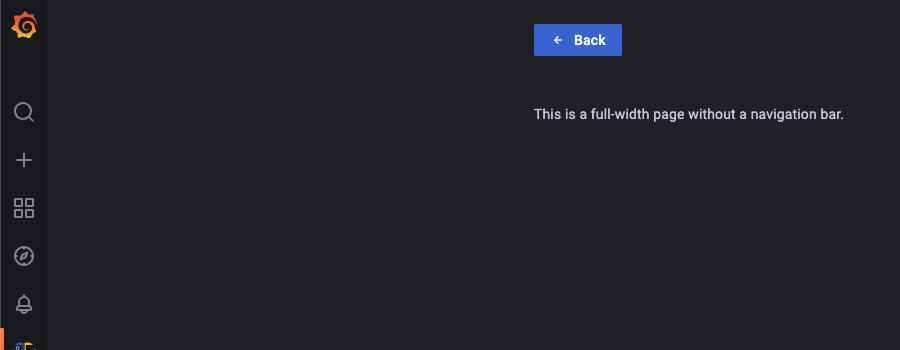
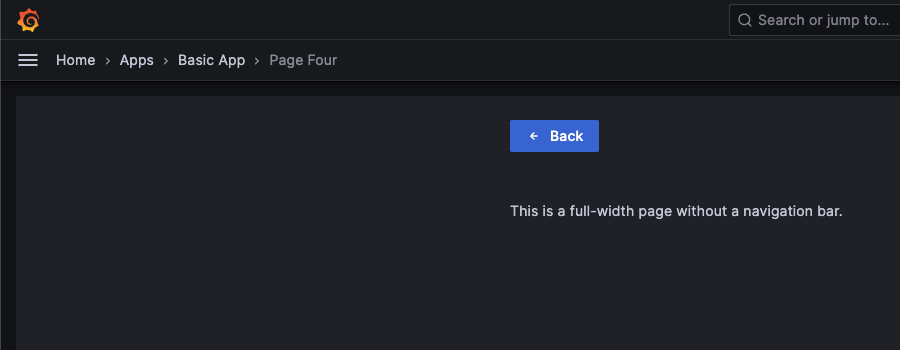
refactor: update app-basic to use react-router v6

diff --git a/examples/app-basic/src/pages/PageThree/PageThree.tsx b/examples/app-basic/src/pages/PageThree/PageThree.tsx
@@ -1,4 +1,4 @@
-import * as React from 'react';
+import React from 'react';
 import { css } from '@emotion/css';
 import { useParams, Link } from 'react-router-dom';
 import { GrafanaTheme2 } from '@grafana/data';
@@ -6,35 +6,38 @@ import { useStyles2 } from '@grafana/ui';
 import { prefixRoute } from '../../utils/utils.routing';
 import { ROUTES } from '../../constants';
 import { testIds } from '../../components/testIds';
+import { PluginPage } from '@grafana/runtime';
 
-export const PageThree = () => {
+export function PageThree() {
   const s = useStyles2(getStyles);
   const { id } = useParams<{ id: string }>();
 
   return (
-    <div data-testid={testIds.pageThree.container}>
-      This is page three.
-      <br />
-      <br />
-      {/* The ID parameter is set */}
-      {id && (
-        <>
-          <strong>ID:</strong> {id}
-        </>
-      )}
-      {/* No ID parameter */}
-      {!id && (
-        <>
-          <strong>No id parameter is set in the URL.</strong> <br />
-          Try the following link: <br />
-          <Link className={s.link} to={prefixRoute(`${ROUTES.Three}/123456789`)}>
-            {prefixRoute(`${ROUTES.Three}/123456789`)}
-          </Link>
-        </>
-      )}
-    </div>
+    <PluginPage>
+      <div data-testid={testIds.pageThree.container}>
+        This is page three.
+        <br />
+        <br />
+        {/* The ID parameter is set */}
+        {id && (
+          <>
+            <strong>ID:</strong> {id}
+          </>
+        )}
+        {/* No ID parameter */}
+        {!id && (
+          <>
+            <strong>No id parameter is set in the URL.</strong> <br />
+            Try the following link: <br />
+            <Link className={s.link} to={prefixRoute(`${ROUTES.Three}/123456789`)}>
+              {prefixRoute(`${ROUTES.Three}/123456789`)}
+            </Link>
+          </>
+        )}
+      </div>
+    </PluginPage>
   );
-};
+}
 
 const getStyles = (theme: GrafanaTheme2) => ({
   link: css`

diff --git a/examples/app-basic/src/pages/PageFour/PageFour.tsx b/examples/app-basic/src/pages/PageFour/PageFour.tsx
@@ -1,25 +1,28 @@
-import * as React from 'react';
+import React from 'react';
 import { css } from '@emotion/css';
-import { GrafanaTheme2 } from '@grafana/data';
+import { GrafanaTheme2, PageLayoutType } from '@grafana/data';
 import { LinkButton, useStyles2 } from '@grafana/ui';
 import { ROUTES } from '../../constants';
 import { prefixRoute } from '../../utils/utils.routing';
 import { testIds } from '../../components/testIds';
+import { PluginPage } from '@grafana/runtime';
 
-export const PageFour = () => {
+export function PageFour() {
   const s = useStyles2(getStyles);
 
   return (
-    <div className={s.page} data-testid={testIds.pageFour.container}>
-      <div className={s.container}>
-        <LinkButton data-testid={testIds.pageFour.navigateBack} icon="arrow-left" href={prefixRoute(ROUTES.One)}>
-          Back
-        </LinkButton>
-        <div className={s.content}>This is a full-width page without a navigation bar.</div>
+    <PluginPage layout={PageLayoutType.Canvas}>
+      <div className={s.page} data-testid={testIds.pageFour.container}>
+        <div className={s.container}>
+          <LinkButton data-testid={testIds.pageFour.navigateBack} icon="arrow-left" href={prefixRoute(ROUTES.One)}>
+            Back
+          </LinkButton>
+          <div className={s.content}>This is a full-width page without a navigation bar.</div>
+        </div>
       </div>
-    </div>
+    </PluginPage>
   );
-};
+}
 
 const getStyles = (theme: GrafanaTheme2) => ({
   page: css`

diff --git a/examples/app-basic/src/pages/PageOne/PageOne.tsx b/examples/app-basic/src/pages/PageOne/PageOne.tsx
@@ -1,23 +1,28 @@
-import * as React from 'react';
+import React from 'react';
 import { css } from '@emotion/css';
 import { GrafanaTheme2 } from '@grafana/data';
 import { LinkButton, useStyles2 } from '@grafana/ui';
 import { prefixRoute } from '../../utils/utils.routing';
 import { ROUTES } from '../../constants';
 import { testIds } from '../../components/testIds';
+import { PluginPage } from '@grafana/runtime';
 
-export const PageOne = () => {
+export function PageOne() {
   const s = useStyles2(getStyles);
 
   return (
-    <div data-testid={testIds.pageOne.container}>
-      This is page one.
-      <div className={s.marginTop}>
-        <LinkButton data-testid={testIds.pageOne.navigateToFour} href={prefixRoute(ROUTES.Four)}>Full-width page example</LinkButton>
+    <PluginPage>
+      <div data-testid={testIds.pageOne.container}>
+        This is page one.
+        <div className={s.marginTop}>
+          <LinkButton data-testid={testIds.pageOne.navigateToFour} href={prefixRoute(ROUTES.Four)}>
+            Full-width page example
+          </LinkButton>
+        </div>
       </div>
-    </div>
+    </PluginPage>
   );
-};
+}
 
 const getStyles = (theme: GrafanaTheme2) => ({
   marginTop: css`

diff --git a/examples/app-basic/src/components/App/App.tsx b/examples/app-basic/src/components/App/App.tsx
@@ -2,8 +2,8 @@ import * as React from 'react';
 import { AppRootProps } from '@grafana/data';
 import { Route, Routes } from 'react-router-dom';
 import { PluginPropsContext } from '../../utils/utils.plugin';
-import { PageOne } from '../../pages/PageOne.js';
-import { PageTwo } from '../../pages/PageTwo.js';
+import { PageOne } from '../../pages/PageOne';
+import { PageTwo } from '../../pages/PageTwo';
 import { PageThree } from '../../pages/PageThree';
 import { PageFour } from '../../pages/PageFour';
 import { ROUTES } from '../../constants';

diff --git a/examples/app-basic/src/pages/PageTwo/PageTwo.tsx b/examples/app-basic/src/pages/PageTwo/PageTwo.tsx
@@ -1,4 +1,13 @@
-import * as React from 'react';
+import React from 'react';
 import { testIds } from '../../components/testIds';
+import { PluginPage } from '@grafana/runtime';
 
-export const PageTwo = () => <div data-testid={testIds.pageTwo.container}>This is page two.</div>;
+export function PageTwo() {
+  return (
+    <PluginPage>
+      <div data-testid={testIds.pageTwo.container}>
+        <p>This is page two.</p>
+      </div>
+    </PluginPage>
+  );
+}

diff --git a/examples/app-basic/README.md b/examples/app-basic/README.md
@@ -10,10 +10,9 @@ App plugins let you create a custom out-of-the-box monitoring experience with fe
 
 | **Example**                                                                                                        | **Source**                             |
 | ------------------------------------------------------------------------------------------------------------------ | -------------------------------------- |
-| [Enable the tab navigation bar](#enable-the-tab-navigation-bar)                                     | [utils.routing.ts], [constants.ts#L17] |
 | [Add a custom route](#add-a-custom-route)                                                           | [Routes.tsx], [constants.ts#L6]        |
 | [Add a custom route with URL parameters](#add-a-custom-route-with-url-parameters)                   | [Routes.tsx], [PageThree.tsx]          |
-| [Create a full-width page with no navigation bar](#create-a-full-width-page-with-no-navigation-bar) | [utils.routing.ts#L25]                 |
+| [Create a full-width page with no navigation bar](#create-a-full-width-page-with-no-navigation-bar) | [PageFour.tsx]                 |
 | [Add custom styling to your components](#add-custom-styling-to-your-components)                     | [PageFour.tsx]                         |
 | [Use the Grafana theme in your components](#use-the-grafana-theme-in-your-components)               | [PageFour.tsx#L25]                     |
 | [How to add menu items to the left sidebar](#hodd-menu-items-to-the-left-sidebar)                           | [plugin.json]                          |
@@ -23,37 +22,11 @@ App plugins let you create a custom out-of-the-box monitoring experience with fe
 | [Update the plugin settings using the API](#how-to-update-the-plugin-settings-using-the-api)               | [AppConfig.tsx]                        |
 | [Access the saved secrets (proxying requests)](#how-to-access-the-saved-secrets-proxying-requests)         | [plugin.json]                          |
 
-### Enable the tab navigation bar
-
-You can enable the tab navigation bar for your app plugin by passing a `nav-model` to the `onNavChanged()` function that is passed in as a prop to your root `App` component.
-If you prefer a simpler approach, you can just edit `NAVIGATION` object in [constants.ts#L17].
-
-**Example:** [utils.routing.ts], [constants.ts#L17]
-
-![Navigation Bar](screenshots/screenshot-nav-bar.png)
-
-**Set the tabs in [constants.ts#L17]**
-
-```javascript
-// Add navigation items here that you want to appear in the tabs
-export const NAVIGATION: Record<string, NavItem> = {
-  [ROUTES.One]: {
-    id: ROUTES.One,
-    text: 'Page One',
-    icon: 'database',
-    url: `${PLUGIN_BASE_URL}/one`,
-  },
-  // ...
-};
-```
-
----
-
 ### Add a custom route
 
-Grafana (and the app plugins are no exception) uses [React Router](https://reactrouter.com/). You can register a new route based on our examples by adding a new route constant in [constants.ts#L6] and then use it in the [Routes.tsx].
+Grafana (and the app plugins are no exception) uses [React Router](https://reactrouter.com/). You can register a new route based on our examples by adding a new route constant in [constants.ts#L6] and then use it in the [App.tsx].
 
-**Example:** [Routes.tsx], [constants.ts#L6]
+**Example:** [App.tsx], [constants.ts#L6]
 
 ---
 
@@ -61,12 +34,12 @@ Grafana (and the app plugins are no exception) uses [React Router](https://react
 
 You can use URL parameters for any routes by appending them to the path in the `<Route>` component.
 
-**Example:** [Routes.tsx], [PageThree.tsx]
+**Example:** [App.tsx], [PageThree.tsx]
 
 ```javascript
 // URL parameters are identified by the colon syntax (":<parameter>")
 // The "?" at the end marks the parameter as optional, in which case React Router also identifies this route if there are no parameters used.
-<Route exact path={`${PLUGIN_BASE_URL}/${ROUTES.Three}/:id?`} component={PageThree} />
+<Route path={`${ROUTES.Three}/:id?`} element={<PageThree />} />
 ```
 
 **Retrieve URL parameters:**
@@ -81,15 +54,25 @@ export const MyComponent = () => {
 
 ---
 
-### Create a full-width page with no navigation bar
+### Create a full-width page
 
-You can hide the tab navigation bar and have access to the full view right to the Grafana sidebar by calling the `onNavChanged()` function with an `undefined` (as it is done in [utils.routing.ts#L25]).
+You can hide the tab navigation bar and have access to the full view right to the Grafana sidebar by changing the layout of the `<PluginPage>` component.
 
-**Example:** [utils.routing.ts#L25]
+**Example:** [PageFour.tsx]
 
 ![Full-width page example](./screenshots/screenshot-full-width-page.png)
 
-> Note: In the current example it is enough to just exclude your route from the `NAVIGATION` object ([constants.ts#L17]). Doing so automatically uses a full-width page.
+```typescript
+import { PageLayoutType } from '@grafana/data';
+
+// ...
+
+export function YourPage() {
+  return (
+    <PluginPage layout={PageLayoutType.Canvas}>
+
+    // ...
+```
 
 ---
 
@@ -209,12 +192,10 @@ Below you can find source code for existing app plugins and other related docume
 - [Sign a plugin](https://grafana.com/developers/plugin-tools/publish-a-plugin/sign-a-plugin)
 
 <!-- prettier-ignore-start -->
-[utils.routing.ts]: https://github.com/grafana/grafana-plugin-examples/blob/master/examples/app-basic/src/utils/utils.routing.ts#L29
 [Routes.tsx]: https://github.com/grafana/grafana-plugin-examples/blob/master/examples/app-basic/src/components/Routes/Routes.tsx#L17
 [PageThree.tsx]: https://github.com/grafana/grafana-plugin-examples/blob/master/examples/app-basic/src/pages/PageThree/PageThree.tsx#L10
-[PageFour.tsx]: https://github.com/grafana/grafana-plugin-examples/blob/master/examples/app-basic/src/pages/PageFour/PageFour.tsx#L22
+[PageFour.tsx]: https://github.com/grafana/grafana-plugin-examples/blob/master/examples/app-basic/src/pages/PageFour/PageFour.tsx
 [PageFour.tsx#L25]: https://github.com/grafana/grafana-plugin-examples/blob/master/examples/app-basic/src/pages/PageFour/PageFour.tsx#L25
-[utils.routing.ts#L25]: https://github.com/grafana/grafana-plugin-examples/blob/master/examples/app-basic/src/utils/utils.routing.ts#L25
 [plugin.json]: https://github.com/grafana/grafana-plugin-examples/blob/master/examples/app-basic/src/plugin.json#L19
 [module.ts]: https://github.com/grafana/grafana-plugin-examples/blob/master/examples/app-basic/src/module.ts#L5
 [AppConfig.tsx]: https://github.com/grafana/grafana-plugin-examples/blob/master/examples/app-basic/src/components/AppConfig/AppConfig.tsx#L26
